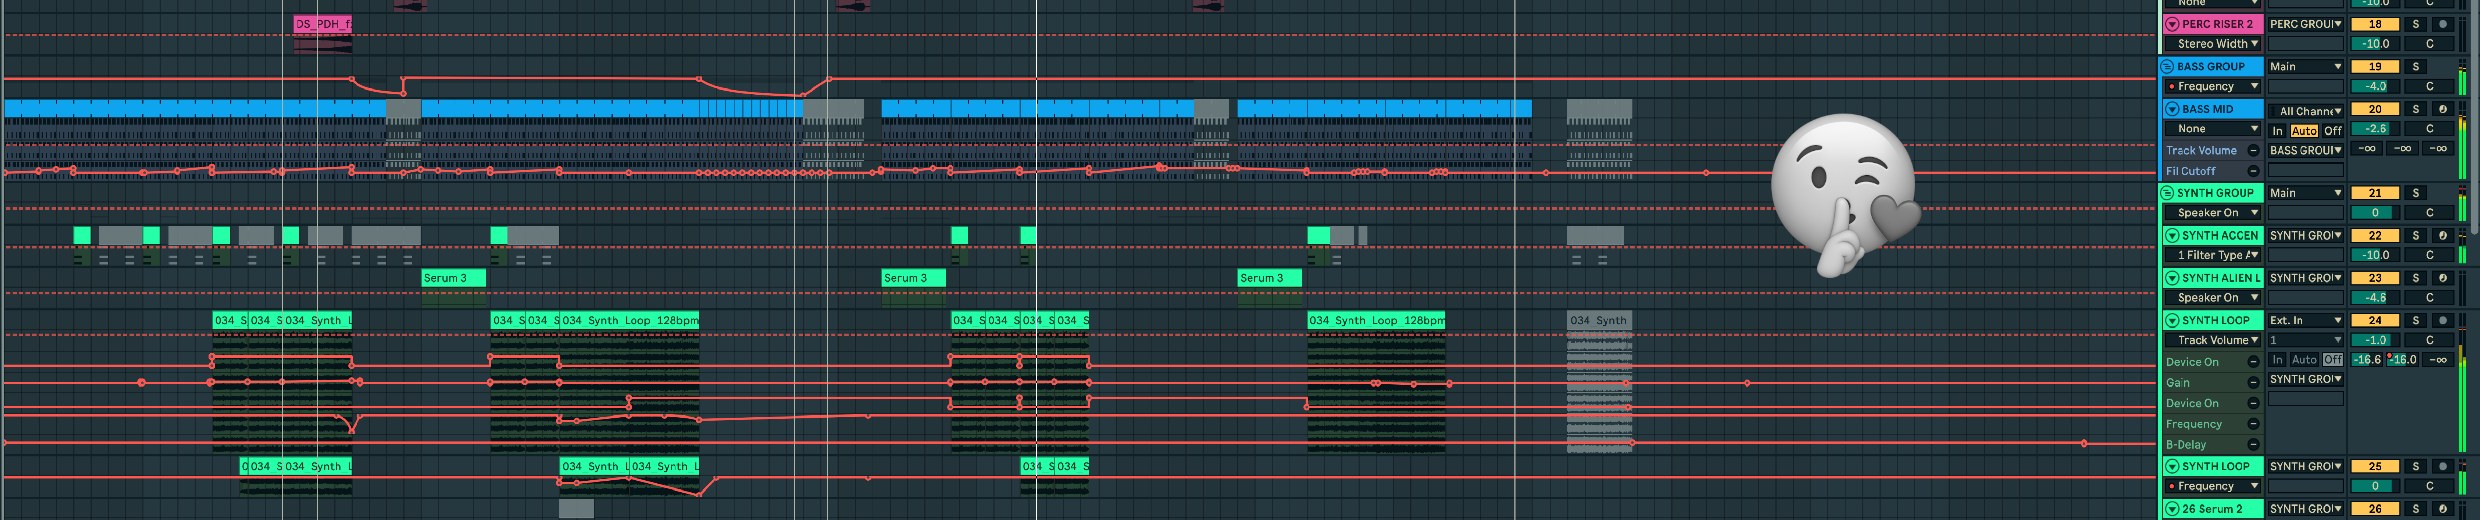
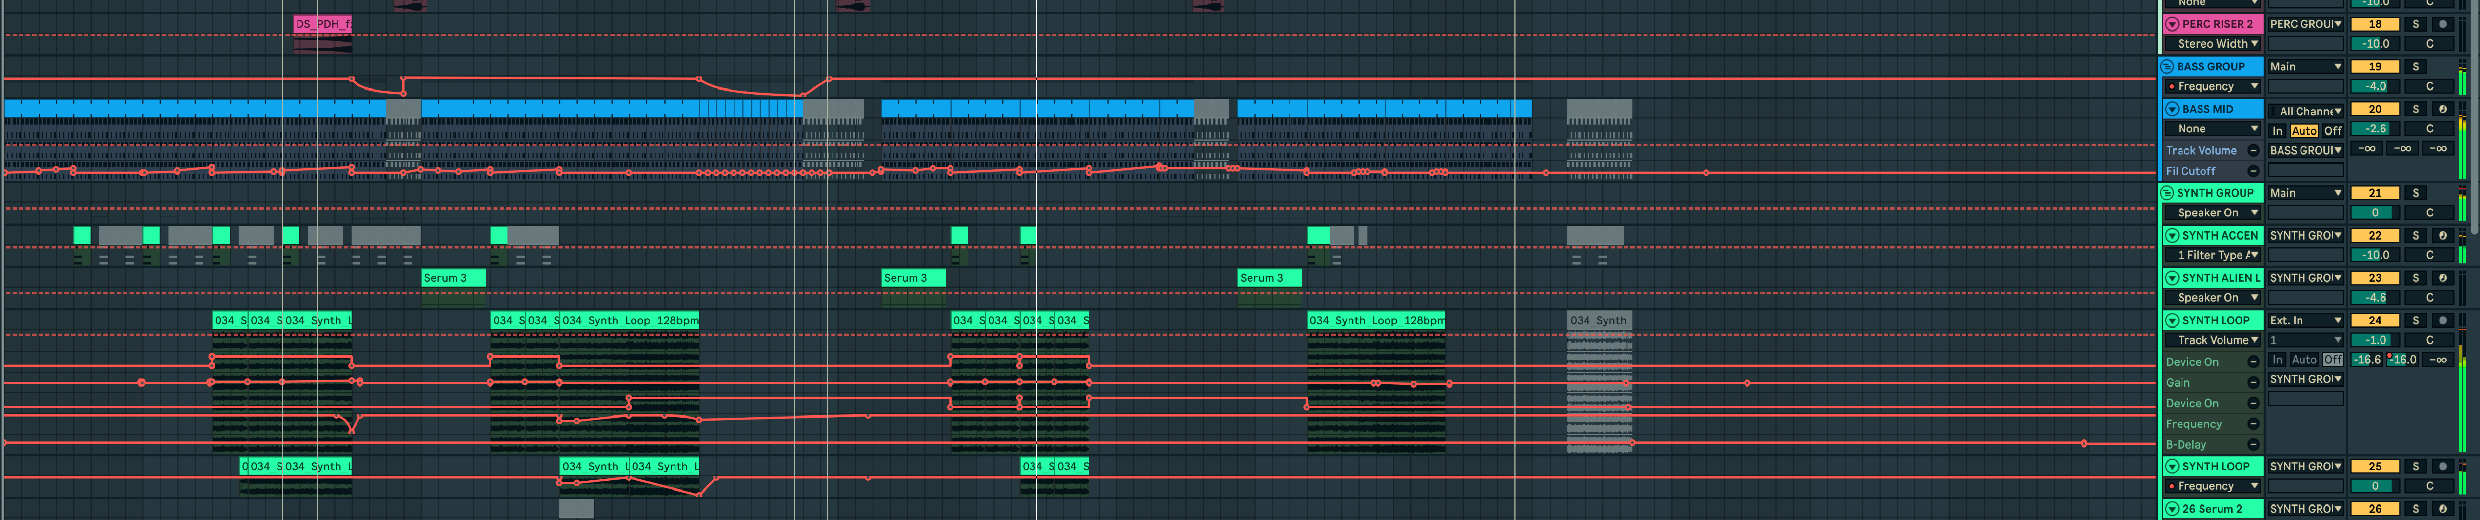
assets

Changed region(s): [[0.7141, 0.2154, 0.7762, 0.5231]]

diff --git a/video-banner.html b/video-banner.html
@@ -1,0 +1,134 @@
+<!doctype html>
+<html lang="en">
+    <head>
+        <meta charset="UTF-8" />
+        <meta name="viewport" content="width=device-width, initial-scale=1.0" />
+        <!-- SEO Meta Tags -->
+        <meta
+            name="description"
+            content="SAYLESS - Remix your world. Make your mark, leave no trace."
+        />
+        <meta
+            name="keywords"
+            content="SAYLESS, stencil, underground, indie dance, electronic music"
+        />
+        <meta name="author" content="SAYLESS" />
+
+        <!-- Essential Open Graph tags -->
+        <meta property="og:title" content="SAYLESS" />
+        <meta
+            property="og:description"
+            content="Remix your world. Make your mark, leave no trace."
+        />
+        <meta
+            property="og:image"
+            content="https://justsayless.xyz/assets/images/logo.png"
+        />
+        <meta property="og:url" content="https://justsayless.xyz" />
+        <meta property="og:type" content="website" />
+        <meta property="og:site_name" content="SAYLESS" />
+
+        <!-- Twitter Card Meta Tags -->
+        <meta name="twitter:card" content="summary_large_image" />
+        <meta name="twitter:title" content="SAYLESS" />
+        <meta
+            name="twitter:description"
+            content="Remix your world. Make your mark, leave no trace."
+        />
+        <meta
+            name="twitter:image"
+            content="https://justsayless.xyz/assets/images/logo.png"
+        />
+        <title>SAYLESS</title>
+        <style>
+            @font-face {
+                font-family: "Stencil Gothic";
+                src: url("assets/fonts/StencilGothic.ttf") format("truetype");
+            }
+
+            body {
+                margin: 0;
+                padding: 0;
+                background-color: black;
+                display: flex;
+                flex-direction: column;
+                justify-content: center;
+                align-items: center;
+                min-height: 100vh;
+                font-family: "Stencil Gothic", sans-serif;
+            }
+
+            .logo {
+                max-width: 450px;
+                height: auto;
+                margin-bottom: 20px;
+            }
+
+            .text {
+                color: white;
+                font-size: 72px;
+                letter-spacing: 2px;
+                text-align: center;
+                position: relative;
+                display: inline-block;
+            }
+
+
+            .enter-link {
+                position: fixed;
+                bottom: 20px;
+                right: 20px;
+                color: #ff0000;
+                text-decoration: none;
+                font-family: "Stencil Gothic", monospace;
+                font-size: 36px;
+                cursor: pointer;
+            }
+
+            .enter-link:visited {
+                color: #ff0000;
+            }
+
+            /* Mobile Responsive */
+            @media (max-width: 768px) {
+                .logo {
+                    max-width: 300px;
+                }
+
+                .text {
+                    font-size: 48px;
+                    letter-spacing: 1px;
+                }
+                
+
+                .enter-link {
+                    font-size: 24px;
+                    bottom: 15px;
+                    right: 15px;
+                }
+            }
+
+            @media (max-width: 480px) {
+                .logo {
+                    max-width: 225px;
+                    margin-bottom: 15px;
+                }
+
+                .text {
+                    font-size: 36px;
+                }
+                
+
+                .enter-link {
+                    font-size: 20px;
+                }
+            }
+        </style>
+    </head>
+    <body>
+        <img src="assets/images/logo.png" class="logo" />
+        <div class="text">
+            SAYLESS
+        </div>
+    </body>
+</html>
